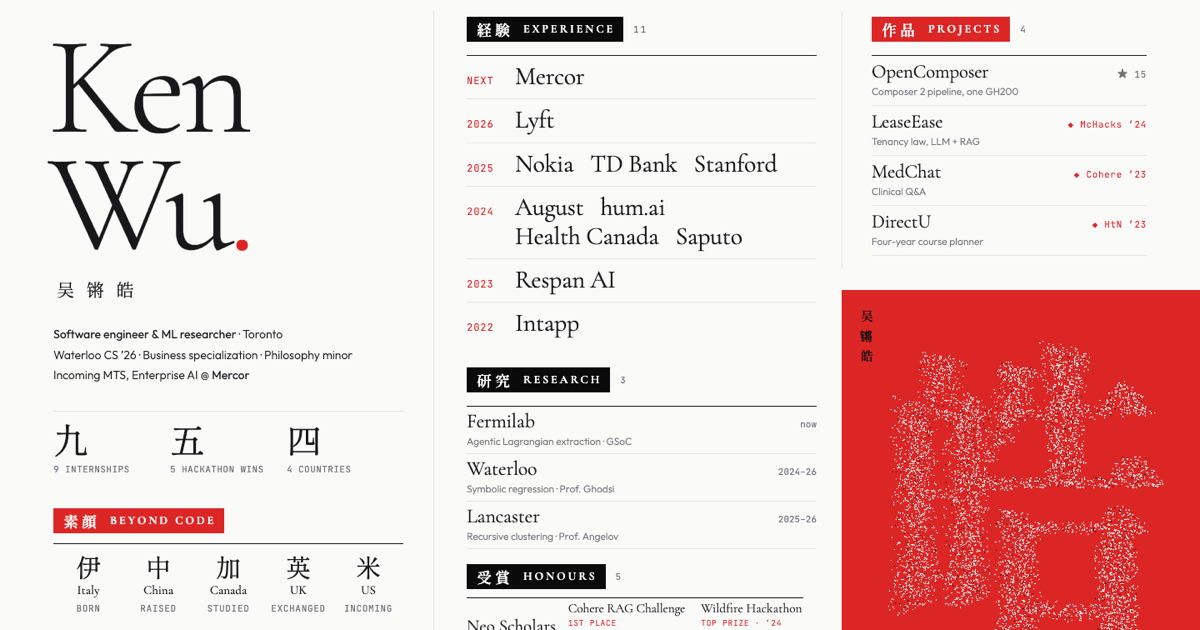
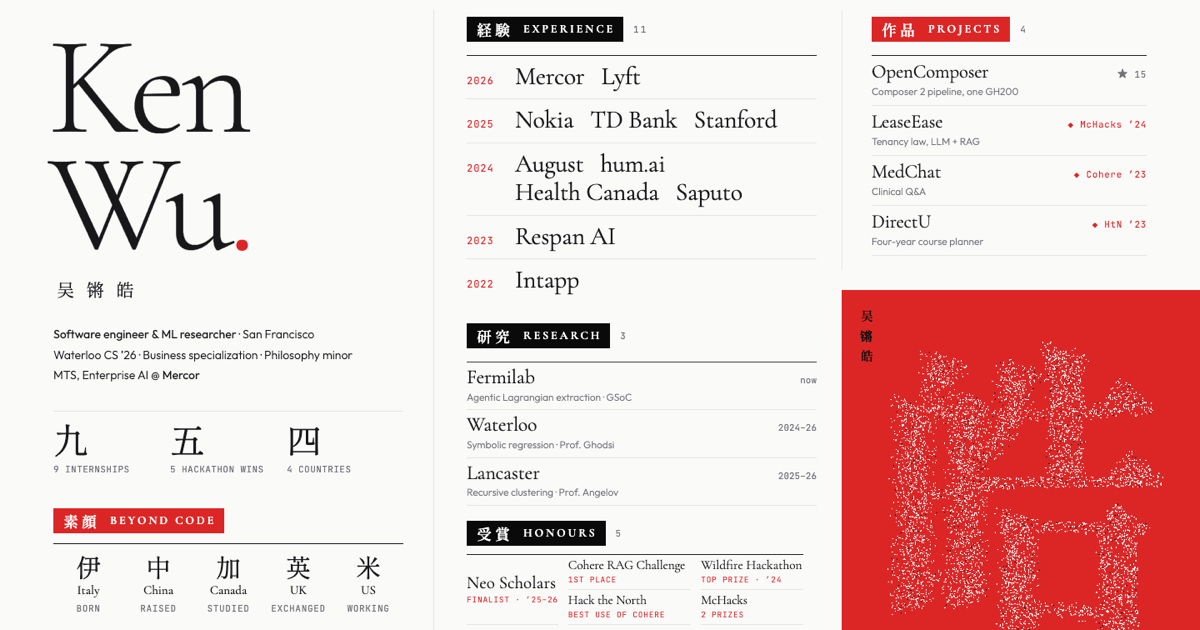
Show Mercor as the current role from 9 November 2026.

diff --git a/index.html b/index.html
@@ -4,12 +4,12 @@
 <meta charset="utf-8">
 <meta name="viewport" content="width=device-width,initial-scale=1">
 <title>Ken Wu — Software Engineer &amp; ML Researcher</title>
-<meta name="description" content="Ken Wu, software engineer and ML researcher in Toronto. Waterloo CS ’26. Incoming Member of Technical Staff, Enterprise AI at Mercor.">
+<meta name="description" content="Ken Wu, software engineer and ML researcher in San Francisco. Waterloo CS ’26. Member of Technical Staff, Enterprise AI at Mercor.">
 <link rel="icon" href="/icon.svg" type="image/svg+xml">
 <meta property="og:type" content="website">
 <meta property="og:site_name" content="Ken Wu">
 <meta property="og:title" content="Ken Wu — Software Engineer &amp; ML Researcher">
-<meta property="og:description" content="Ken Wu, software engineer and ML researcher in Toronto. Waterloo CS ’26. Incoming Member of Technical Staff, Enterprise AI at Mercor.">
+<meta property="og:description" content="Ken Wu, software engineer and ML researcher in San Francisco. Waterloo CS ’26. Member of Technical Staff, Enterprise AI at Mercor.">
 <meta property="og:url" content="https://kenwu.is-a.dev/">
 <meta property="og:image" content="https://kenwu.is-a.dev/og.png">
 <meta property="og:image:width" content="1200">
@@ -284,7 +284,7 @@
     <div id="c1">
       <h1 class="name" aria-label="Ken Wu"><span class="ln" style="--d:250ms" aria-hidden="true"><span class="L">K</span><span class="L">e</span><span class="L">n</span></span><span class="ln" style="--d:380ms" aria-hidden="true"><span class="L">W</span><span class="L">u</span><i>.</i></span></h1>
       <div class="kn" style="--d:600ms">吴锵皓</div>
-      <div class="meta" style="--d:700ms"><b>Software engineer &amp; ML researcher</b> · Toronto<br>Waterloo CS ’26 · Business specialization · Philosophy minor<br>Incoming MTS, Enterprise AI @ <b>Mercor</b></div>
+      <div class="meta" style="--d:700ms"><b>Software engineer &amp; ML researcher</b> · San Francisco<br>Waterloo CS ’26 · Business specialization · Philosophy minor<br>MTS, Enterprise AI @ <b>Mercor</b></div>
       <div class="stats" style="--d:800ms">
         <div><b aria-hidden="true">九</b><span>9 INTERNSHIPS</span></div>
         <div><b aria-hidden="true">五</b><span>5 HACKATHON WINS</span></div>
@@ -324,9 +324,9 @@
 <script>
 const KN=['一','二','三','四','五','六','七','八','九','十','十一','十二'];
 const NO=i=>String(i+1).padStart(2,'0');
-const PLACES=[['伊','Italy','BORN'],['中','China','RAISED'],['加','Canada','STUDIED'],['英','UK','EXCHANGED'],['米','US','INCOMING']].map(([k,c,w])=>`<div><b aria-hidden="true">${k}</b><em>${c}</em><span>${w}</span></div>`).join('');
+const PLACES=[['伊','Italy','BORN'],['中','China','RAISED'],['加','Canada','STUDIED'],['英','UK','EXCHANGED'],['米','US','WORKING']].map(([k,c,w])=>`<div><b aria-hidden="true">${k}</b><em>${c}</em><span>${w}</span></div>`).join('');
 const EXP=[
- {n:'Mercor',role:'Member of Technical Staff',tag:'ENTERPRISE AI',d:'Incoming',y:'next',p:'San Francisco, United States',b:['Build an evaluation platform and domain-specific benchmarks for enterprise AI agents','Construct training environments, tasks and reward signals to post-train private models','Run systematic experiments to hill-climb agent performance on real enterprise workflows','Deploy evaluation and post-training systems with enterprise partners as a forward-deployed engineer'],t:[],l:[['Visit','https://mercor.com/']]},
+ {n:'Mercor',role:'Member of Technical Staff',tag:'ENTERPRISE AI',d:'Nov 2026 — Present',y:'2026',p:'San Francisco, United States',b:['Build an evaluation platform and domain-specific benchmarks for enterprise AI agents','Construct training environments, tasks and reward signals to post-train private models','Run systematic experiments to hill-climb agent performance on real enterprise workflows','Deploy evaluation and post-training systems with enterprise partners as a forward-deployed engineer'],t:[],l:[['Visit','https://mercor.com/']]},
  {n:'Lyft',role:'Machine Learning Software Engineer Intern',tag:'BAILOUT MODEL',d:'May 2026 — Aug 2026',y:'2026',p:'Toronto, Canada',b:['Doubled the bailout model’s cancel-detection recall (+34.2pp at 2.5% FPR) via 17 new route/GPS features','Grew Canada bailout coverage from 1.4% to 100% of rides via census backfill for 2,964 geohashes','Root-caused a defect in Lyft’s bailout model flagging 76.6% of rides; shipped automated per-cluster thresholds','Shipped shadow inference and holdout capture into the bailout service with zero live decision impact'],t:['Python','CatBoost','SQL','GeoPandas'],l:[['Visit','https://www.lyft.com/']]},
  {n:'Nokia',role:'Software Engineer Intern',tag:'5G NETWORK AGENT',d:'Jul 2025 — Dec 2025',y:'2025',p:'Ottawa, Canada',b:['Shipped a LoRA fine-tuning pipeline that turns Qwen into a Camunda BPMN XML generator with GGUF quantization','Caught NCSC-only training overfitting with an eval harness that benchmarks fine-tuned vs. base models','Unblocked GPU training by fixing OOM and Triton kernel failures; shipped reusable training tooling'],t:['Python','PyTorch','Unsloth','Transformer'],l:[['Visit','https://www.nokia.com/']]},
  {n:'TD Bank',role:'Data Scientist Intern',tag:'INSURANCE ANALYSIS',d:'Jun 2025 — Aug 2025',y:'2025',p:'Toronto, Canada',b:['Replatformed 1.5M+ row pipelines and reproduced a 154,340-row deliverable at 100% parity','Cut QA time 80% by automating 30+ min/cycle ingestion with a row-level parity harness','Saved 2–4 hrs/week by migrating the on-prem pipeline to Azure with automated runs'],t:['Python','SQL','PySpark','Pandas','Databricks'],l:[['Visit','https://www.td.com/']]},
@@ -447,7 +447,7 @@ addEventListener('resize',fit);phone.addEventListener('change',fit);fit();
 
 /* ---------- rows ---------- */
 const btn=(kind,i,x,d,inner)=>`<button class="row${kind==='res'?' sm':''}" data-kind="${kind}" data-i="${i}"${d==null?'':` style="--d:${d}ms"`}>${inner}</button>`;
-function expRows(){const g=[];EXP.forEach((x,i)=>{const y=x.y==='next'?'NEXT':x.y;let G=g.find(q=>q.y===y);if(!G)g.push(G={y,ix:[]});G.ix.push(i)});
+function expRows(){const g=[];EXP.forEach((x,i)=>{const y=x.y;let G=g.find(q=>q.y===y);if(!G)g.push(G={y,ix:[]});G.ix.push(i)});
   $('expRows').innerHTML=g.map((G,j)=>`<div class="yg" style="--d:${380+j*70}ms"><span class="yy">${G.y}</span><div class="yn">${G.ix.map(i=>btn('exp',i,EXP[i],null,`<span class="nm">${EXP[i].n}</span>`)).join('')}</div></div>`).join('')}
 function resRows(){$('resRows').innerHTML=RES.map((x,i)=>btn('res',i,x,780+i*45,`<span class="nm">${x.n}</span><span class="yr">${x.y}</span><span class="s">${x.s}</span>`)).join('')}
 function projRows(){$('projRows').innerHTML=PROJ.map((x,i)=>{const f=(x.aw?`<span class="flag">◆ ${x.aw}</span>`:'')+(x.st?`<span class="star" title="GitHub stars"><i aria-hidden="true">★</i> ${x.st}</span>`:'');
